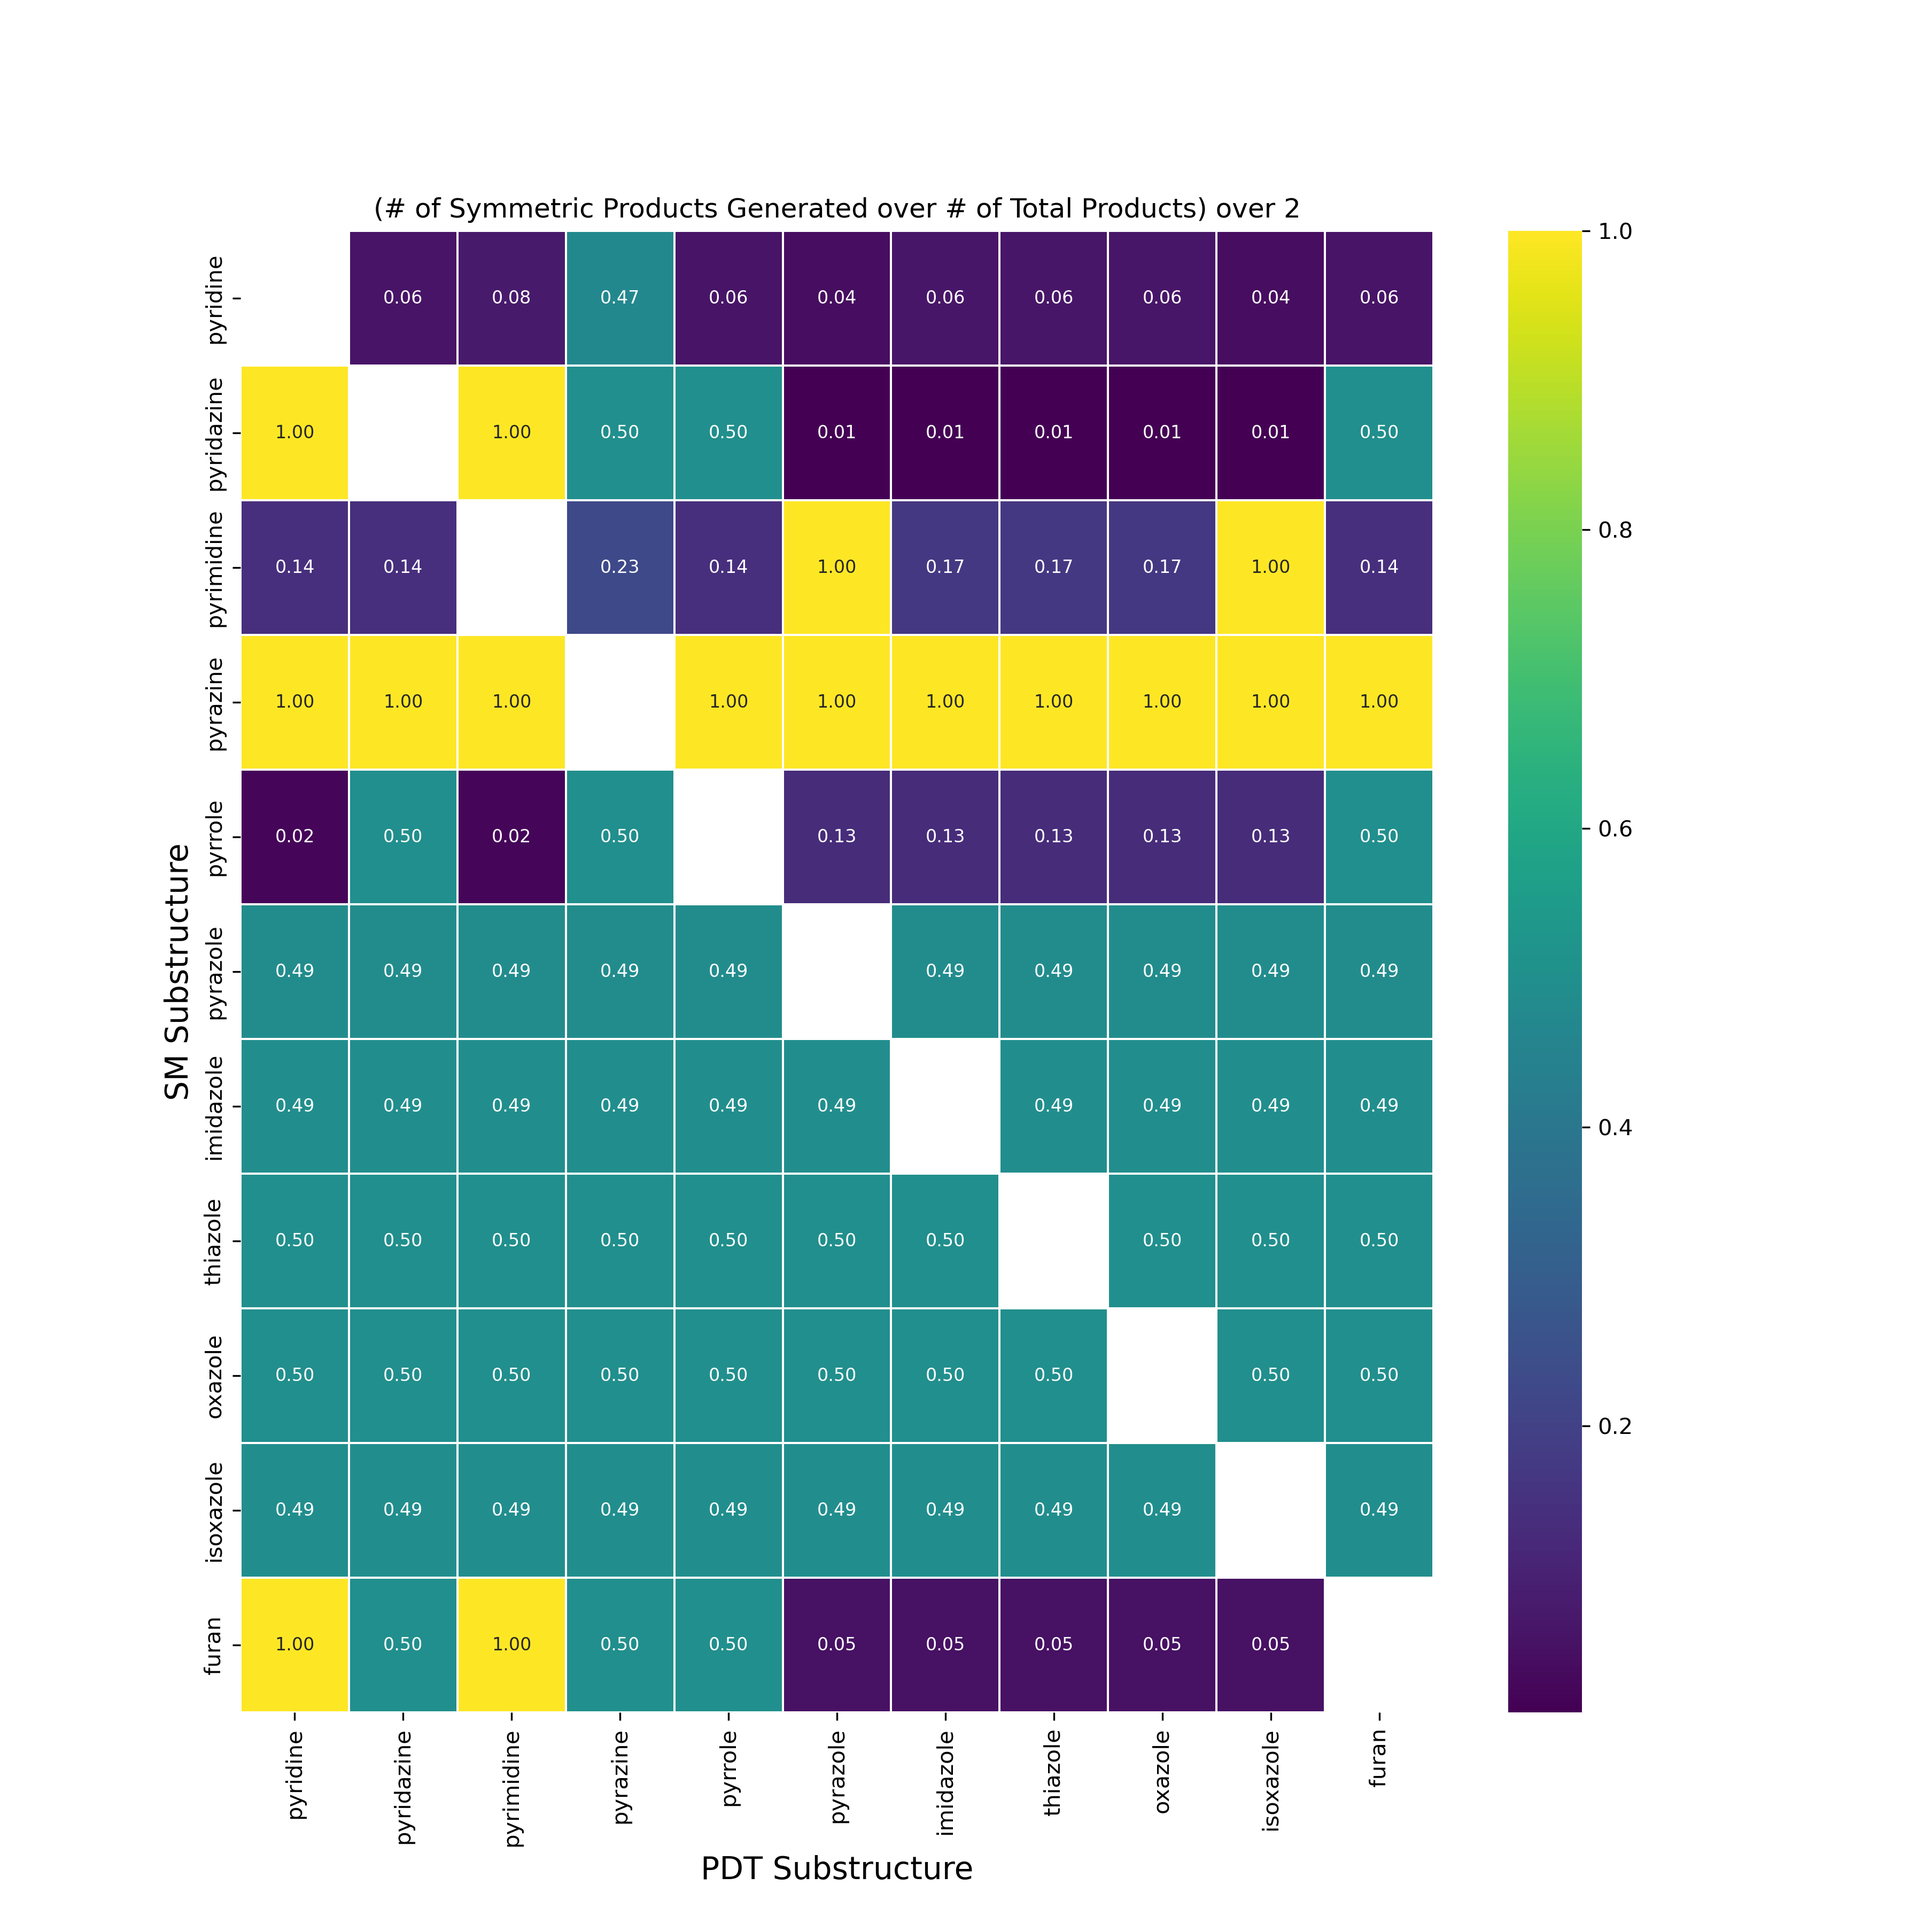
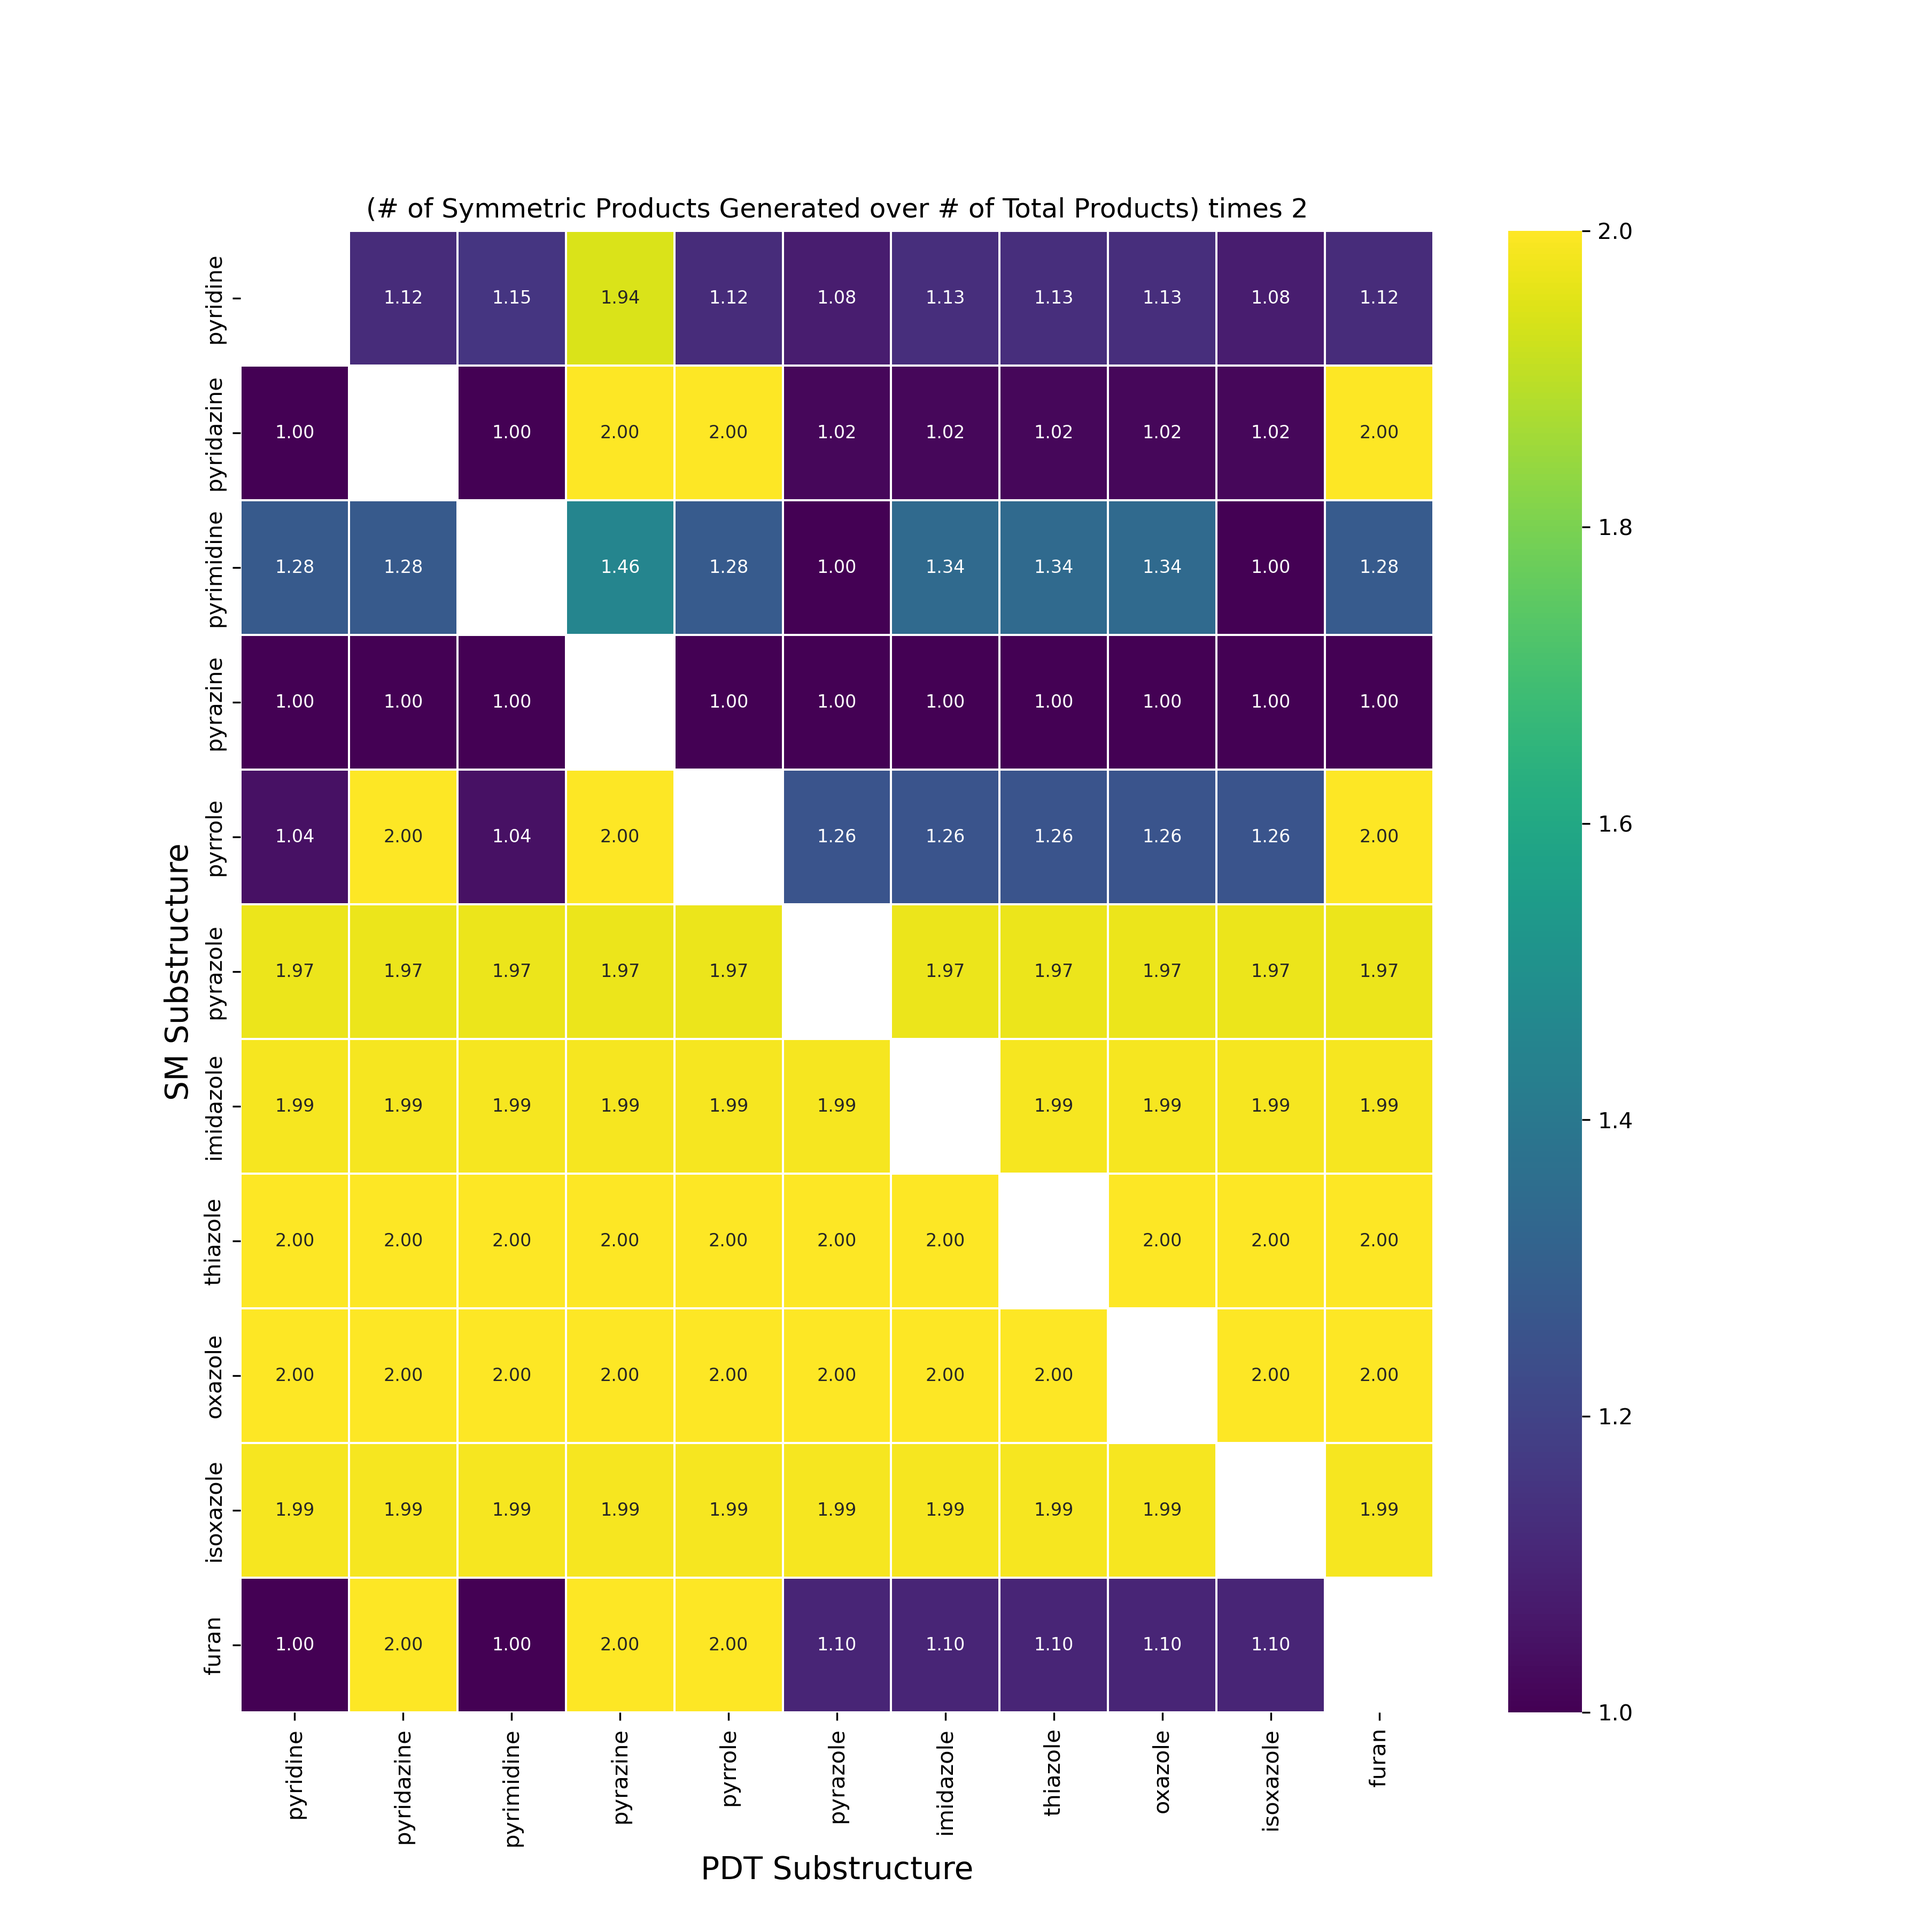
Adjusted symmetry metric, finished

diff --git a/test_short/heatmaps/gather_all_results.py b/test_short/heatmaps/gather_all_results.py
@@ -176,14 +176,11 @@ def count_symmetric_molecules(frameworks, symmetric_filename):
                     if line_prefix[0] == line_prefix_match:
                         # Split the string by '/' and extract the number of symmetric molecules
                         parts = line.split('/')
-                        symmetric_number = parts[0].split(': ')[-1].strip()
+                        symmetric_molecules_number = parts[0].split(': ')[-1].strip()
                         total_molecules_number = parts[1].strip()
 
                         # calculate symmetry metric
-                        if int(symmetric_number) == 0:
-                            symmetric_metric = 1
-                        elif int(symmetric_number) != 0:
-                            symmetric_metric = ((int(symmetric_number) / int(total_molecules_number)) * 2)
+                        symmetric_metric = ((int(symmetric_molecules_number) / int(total_molecules_number))+ 1)
 
                         # add to array
                         symmetric_count_arr[idx1, idx2] = symmetric_metric
@@ -292,16 +289,15 @@ GenerateHeatmap(new_count_df, '# of Unknown Molecules Generated', filename = 'ne
 GenerateHeatmap(common_count_df, '# of Common Molecules Between Starting Molecules and Products', filename = 'common_count.png')
 GenerateHeatmap(symmetry_results_df, '(# of Symmetric Products Generated over # of Total Products) times 2', filename = 'symmetry_results.png')
 
-
 # calculates results normalized to # of starting molecules
 normalized_unique_count_arr = unique_count_arr / sm_count_arr
 normalized_new_count_arr = new_count_arr / sm_count_arr
 normalized_common_count_arr = common_count_arr / sm_count_arr
 
 # adjusts arrays based on symmetry metric
-adjusted_unique_count_arr = normalized_unique_count_arr * symmetry_results_arr # unsure if this one is meaningful
-adjusted_new_count_arr = normalized_new_count_arr * symmetry_results_arr # want to be absolutely certain this is valid (duplicates already removed...?)
-adjusted_common_count_arr = normalized_common_count_arr * symmetry_results_arr # unsure if this one is necessary
+adjusted_unique_count_arr = normalized_unique_count_arr / symmetry_results_arr # unsure if this one is meaningful
+adjusted_new_count_arr = normalized_new_count_arr / symmetry_results_arr # want to be absolutely certain this is valid (duplicates already removed...?)
+adjusted_common_count_arr = normalized_common_count_arr / symmetry_results_arr # unsure if this one is necessary
 
 # generates symmetry adjusted, normalized new molecules heatmap
 adjusted_new_count_df = pd.DataFrame(adjusted_new_count_arr, 
